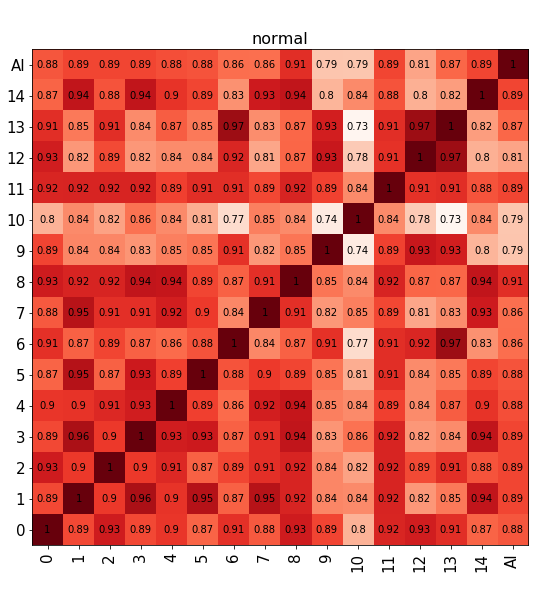
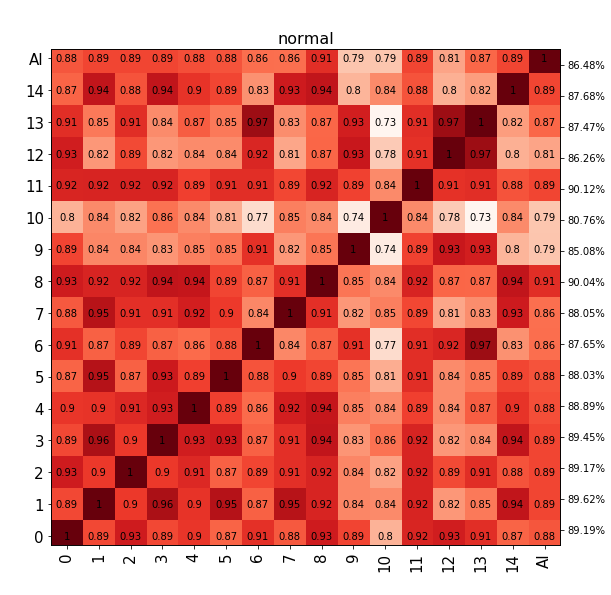
additional text, corrections, finalizing started

diff --git a/main.tex b/main.tex
@@ -84,7 +84,7 @@ tabsize=3
     \vspace{.5cm}
     \rule{140mm}{0.1mm}\\
     \vspace{.5cm}
-    {\large\itshape Olar Alex\par}
+    {\large\itshape Alex Olar\par}
     \vfill
     supervisor\par
     \vspace{0.5cm}
@@ -119,23 +119,23 @@ In 2012 a neural network-based architecture won the ImageNet Large Scale Visual 
 
 \vspace{7mm}
 
-Neural networks are universal function approximators that are organized into layers. Layers of a neural network can be highly specialized, such as convolutional layers, that can efficiently learn spatial features, others might simply do matrix multiplication and apply a non-linear mapping to the input to extract underlying information from the data. A neural network architecture nowadays is a concatenation of differentiable layers and training means adjusting the tunable weights of these layers simultaneously based on input data and an objective/loss function that we aim to minimize.
+Neural networks are universal function approximators that are organized into layers. Layers of a neural network can be highly specialized, such as convolutional layers, that can efficiently learn spatial features, others might simply do matrix multiplication and apply a non-linear mapping to the input to extract underlying information from the data. Neural network architectures nowadays are a concatenation of differentiable layers and training means adjusting the tunable weights of these layers simultaneously based on input data and an objective/loss function that we aim to minimize.
 
 \vspace{4mm}
 
-\par Computer vision for many years was based on hand-engineered feature extraction and although convolutional neural networks (CNNs) were used for some dimensionally constrained problems, such as hand-written digit recognition \cite{lecun1998gradient}. The breakthrough for CNNs came with the advent of graphical processing units (GPUs). As these processors have become widely available due to computer gaming the hardware was pushed to its limits and manufacturers poured a lot of money into research. Therefore the GPUs not only did include more and more on-board memory year-by-year but also performance was improving rapidly. Since computer graphics require a lot of matrix multiplication and concurrent, parallelized computation the scientific community jumped on it and started using graphical processors.
+\par Computer vision for many years was based on hand-engineered feature extraction and although convolutional neural networks (CNNs) were used for some dimensionally constrained problems, such as hand-written digit recognition \cite{lecun1998gradient}. The breakthrough for CNNs came with the advent of graphical processing units (GPUs). As these processors have become widely available due to computer gaming the hardware was pushed to its limits and manufacturers poured a vast amount of money into research. Therefore the GPUs not only did include more on-board memory year-by-year but also performance was improving rapidly. Since computer graphics require a lot of matrix multiplication and concurrent, parallelized computation the scientific community jumped on it and started using graphical processors for general purpose computing.
 
 \vspace{4mm}
 
-\par The ImageNet Large Scale Visual Recognition Challenge \cite{ILSVRC15} was launched in 2010 with approximately 1.2 million images containing 1000 categories. The goal of the challenge was to classify images into these categories on a held-out test set that was not provided for the participants beforehand. In 2011 a 25\% top-5 error rate was already considered very good but in 2012 the first convolutional neural network-based model \cite{krizhevsky2012imagenet} won the challenge beating the top results by a huge margin. To do so good they used GPUs heavily and proved that image classification is possible via CNNs on large scale images as well.
+\par As computer vision progressed, a need for comparable results was long overdue. The ImageNet Large Scale Visual Recognition Challenge \cite{ILSVRC15} was launched in 2010 with approximately 1.2 million images containing 1000 categories. The goal of the challenge was to classify images into these categories on a held-out test set that was not provided for the participants beforehand. In 2011 a 25\% top-5 error rate was already considered very good but in 2012 the first convolutional neural network-based model \cite{krizhevsky2012imagenet} won the challenge beating the top results by a huge margin. To do so good they used GPUs heavily and proved that image classification is possible via CNNs on large scale images as well. Therefore, the ImageNet top-5 accuracy score became the standard metric of comparing computer vision algorithms and to this day, new architectures are always compared for ImageNet performance in supervised, weakly-supervised and unsupervised settings as well.
 
 \vspace{4mm}
 
-\par Soon after the re-discovery of convolutional networks for image recognition tasks the scientific community in computer vision realized that convolutional neural networks learn generalizable features and the datasets they considered different so far are not so distinct after all. Networks trained on a dataset of recognizing 1000 different classes can be transferred to other datasets with the change of the top of the network to recognize fundamentally different images. This method is called transfer learning and is exceedingly used nowadays thanks to its efficiency.
+\par Soon after the re-discovery of convolutional networks for image recognition tasks the scientific community in computer vision realized that convolutional neural networks learn generalizable features and the datasets they considered different so far are not so distinct after all. Networks trained on a dataset of recognizing 1000 different classes can be transferred to other datasets with the change of the top of the network to recognize fundamentally different images. This method is called transfer learning and is exceedingly used nowadays thanks to its efficiency. It is rather surprising that a model trained on the ImageNet dataset which contains natural images in different contexts such as dogs in the contry side, cars in traffic, humans at work, etc. can generalize to healthcare applications such as cell segmentation, malignity detection, tissue classification via transfer of these learnt weights. 
 
 \vspace{4mm}
 
-\par Soon enough human performance was surpassed \cite{he2016deep} by the ResNet architecture and since then people are arguing whether there is still a need for improving ImageNet performance because it is so good. In response to that, the ILSVRC stopped in 2017 to focus on other problem sets. 
+\par Soon enough human performance on ILSVRC was surpassed \cite{he2016deep} by the ResNet architecture and since then people are arguing whether there is still a need for improving ImageNet performance because it is so good. In response to that, the main challenge stopped in 2017 to focus on other problem sets. On the other hand, ILSVRC performance remained a gold standard for architecture evaluation. 
 
 \vspace{7mm}
 
@@ -143,28 +143,40 @@ Neural networks are universal function approximators that are organized into lay
 
 \vspace{7mm}
 
-Currently, deep learning is everywhere and almost everyone is trying to use it to achieve better accuracy in some tasks. In the industry, the main application for artificial intelligence (AI) is to develop self-driving cars in addition to improve recommendation systems for online commercials. On the other hand, it would be highly beneficial for modern societies to use computer vision for better healthcare, education, road safety.
+Currently, deep learning is everywhere and almost everyone is trying to use it to achieve better accuracy in some tasks. In the industry, the main application for artificial intelligence (AI) is to develop self-driving cars in addition to improve recommendation systems for online commercials. On one hand, this certainly drives the economy and as a byproduct we could achieve safer transportation and better overall service as costumers/consumers. On the other hand, it would be highly beneficial for modern society to use computer vision for significantly better healthcare and education. Deep learning has enabled us to do us, from now on, the question is time and effort.
 
 \vspace{4mm}
 
-\par Google has partnered with the United Kingdom's health system ( NHS - National Health System ) to gather all the data they can to improve diagnostics and to build algorithms that can work for medics and sanitary workers to improve healthcare. This all sounds too good to be true in capitalism and it is. This has caused outrage amongst the people of the UK \cite{kollewe_2019} but they have some undeniable results regarding reading mammograms better than radiologists \cite{mckinney2020international}. We are in an era where governments can lead large-scale projects (in data size) to improve their healthcare systems without investing vast amounts of money for equipment. The COVID-19 crisis showed that with enough data and computational resources pneumonia detection can be achieved with high accuracy \cite{nvidia}.
+\par Not so long ago, Google, the tech giant, has partnered with the United Kingdom's healthcare system ( NHS - National Health System ) to gather all the data they can to improve diagnostics and to build algorithms that can work for medics and sanitary workers to improve healthcare. This all sounds too good to be true in capitalism and it is. This has caused outrage amongst the people of the UK \cite{kollewe_2019} regarding personal data protection, however, researchers at Google have some undeniable results such as, reading mammograms better than radiologists \cite{mckinney2020international}, developing a real-time colorectal cancer detection microscope \cite{chen2019augmented}. We are in an era where governments can lead large-scale projects (in data size) to improve their healthcare systems without investing vast amounts of money for equipment, labor and facilities. The COVID-19 crisis showed that with enough data and computational resources pneumonia detection can be achieved with high accuracy \cite{nvidia} proving that computer vision in medicine can be achieved on-demand.
 
 \vspace{4mm}
 
-\par In my opinion computer vision has achieved a state that almost every vision-related task can be done on human performance level or even surpassed by computers. Such as glial cell detection in mouse brain tissue \cite{suleymanova2018deep}, reading mammograms  \cite{ribli2018detecting}, 
-predicting colorectal cancer outcome \cite{skrede2020deep}, volumetric data such as CT's \cite{cciccek20163d}. I could also mention advancement in weak-lensing, astrophysics \cite{ribli2019improved} and new areas to explore, such as Hamiltonian \cite{greydanus2019hamiltonian} and Lagrangian \cite{cranmer2020lagrangian} neural networks for physics. It is also worth to mention advancement in reinforcement learning that started with playing Atari games \cite{mnih2013playing} successfully and on-par with human players and led to playing Dota 2 and Starcraft \cite{alphastarblog} in top-tier leagues. This might sound irrelevant but reinforcement learning robots will take over jobs of production line workers \cite{satariano_metz_2020} very soon.
+\par Computer vision has matured enough to reach a state where almost every vision-related task can be done on human performance level or even surpassed by computers. Such as glial cell detection in mouse brain tissue \cite{suleymanova2018deep}, reading mammograms  \cite{ribli2018detecting}, 
+predicting colorectal cancer outcome of patients \cite{skrede2020deep}, diagnosing volumetric data such as CT's \cite{cciccek20163d}. I could also mention advancement in weak-lensing, astrophysics \cite{ribli2019improved} and new areas to explore, such as Hamiltonian \cite{greydanus2019hamiltonian} and Lagrangian \cite{cranmer2020lagrangian} neural networks for physics, where the dynamics of the system is deduced from sensory input going so far as learning actual physics from images with generative models \cite{toth2019hamiltonian}. It is also worth to mention advancement in reinforcement learning that started with playing Atari games \cite{mnih2013playing} successfully and on-par with human players and led to playing Dota 2 and Starcraft \cite{alphastarblog} in top-tier leagues, both of which are tremendously complex environments that resemble real world complexity. This might sound irrelevant but reinforcement learning robots will take over the majority of production line jobs \cite{satariano_metz_2020} very soon.
 
 \vspace{4mm}
 
-\par Therefore it is the right time to research the widespread application of AI in the medical field and I am certain that doing something here is highly beneficial not only for career self-advancement but also for the society as well. 
+\par As a consequence, it is high time to research the widespread applications of AI in the medical field and in natural sciences in general. Finally, I am certain that doing something here is highly beneficial not only for self-advancement or other opportunistic reasons but also for society. We are building the future and even though I laid out a rather over-optimistic view on it, we must take precautions while deploying such systems to avoid built-in bias in our models \cite{amodei2016concrete}.
 
-\vspace{7mm}
+\newpage
 
 \subsection{Overview}
 
 \vspace{7mm}
 
-//TODO: sum up everything here that comes
+\par In the following sections I provide a brief overview of what machine learning is and how it is used in computer vision. I gather the intuitions of building such systems and talk more about convolutional algorithms. Also in this section I give a quick walk-through of a simple binary classification problem and show how that can be solved either by logistic regression or via neural networks. Closing this section the general structure of convolutional neural networks is presented.
+
+\vspace{4mm}
+
+\par In the succeeding section, I present in a nutshell the field of medical imaging and especially cancer detection/recognition. Here I mention some statistical details about cancer and demonstrate how computer vision can revolutionize treatment and patient care.
+
+\vspace{4mm}
+
+\par Moving on to the first application that I have been part of for almost a year. In this thesis, I display the techniques we used for different types of colorectal tissue recognition and malignity detection. In addition, I also exhibit the process of gathering a unique and in-size unprecedented dataset for colorectal cancer research and reveal some of our results.
+
+\vspace{4mm}
+
+\par Furthermore, I shortly talk about an on-going DREAM Challenge \footnote{'The DREAM Challenges are an open science effort, a non-profit, collaborative community effort consisting of contributors from across the research spectrum including researchers from universities; technology companies like IBM Research; not for profits, like Sage Bionetworks; and biotechnology and pharmaceutical companies.' - source \url{dreamchallenges.org/about-dream}} that deals with automated rheumathology. As the competition is still in progress, I cannot disclose any data, not even for presentation, nor include any results, as a consequence I only present our work and the methods we used. Currently we are amongst top participants.
 
 \newpage
 
@@ -176,7 +188,22 @@ predicting colorectal cancer outcome \cite{skrede2020deep}, volumetric data such
 
 \vspace{7mm}
 
-\par The human visual cortex is composed of many hierarchical layers but the image data required by our eyes is processed through cells on the retina that are sensitive to light known as the rods and cones. The rods are sensitive to color whilst the cones are sensitive to the intensity of the photons. The number of cones is significantly higher than the number of rods, therefore we are much more adapted to detecting light intensity than to colors. There are three types of these cone cells causing trichromacy \cite{arrese2002trichromacy} and therefore in computer science, the most widespread format of images is stored in RGB (red-green-blue) channels. The visual cortex is doing edge detection in the V1 (primary visual cortex) which has been computationally reproduced \cite{olshausen1996emergence} while it is assumed that the V2 \cite{ZiembaV2} and V4 are doing much more abstract representations, the latter already producing objects.
+\par The human visual cortex is composed of many hierarchical layers. The image data required by our eyes is processed through cells on the retina that are sensitive to light known as the rods and cones. The rods are sensitive to color whilst the cones are sensitive to the intensity of the photons. The number of cones is significantly higher than the number of rods, therefore we are much more adapted to detecting light intensity than to colors. There are three types of these cone cells causing trichromacy \cite{arrese2002trichromacy} and therefore in computer science, the most widespread format of storing image data is in RGB (red-green-blue) channels. The visual cortex is doing edge detection in the V1 (primary visual cortex) which has been computationally reproduced \cite{olshausen1996emergence} while it is assumed that the V2 \cite{ZiembaV2} and V4 are doing much more abstract representations, the latter already producing objects. Some researchers are occupying with demonstrating the same in neural networks \cite{cammarata2020thread:}.
+
+\vspace{4mm}
+
+\begin{minipage}[t]{0.35\textwidth}
+    \centering
+    \includegraphics[width=\textwidth]{intro/visual-cortex.png}
+    \captionof{figure}{General layout of the human visual cortex}
+    \label{fig:human-cortex}
+\end{minipage}
+\begin{minipage}[t]{0.55\textwidth}
+    \centering
+    \includegraphics[width=\textwidth]{intro/eraly-vision-distill.png}
+    \captionof{figure}{Early vision in a convolutional neural network - source \url{https://distill.pub/2020/circuits/early-vision/}}
+    \label{fig:sigmoid}
+\end{minipage}
 
 \vspace{7mm}
 
@@ -184,7 +211,7 @@ predicting colorectal cancer outcome \cite{skrede2020deep}, volumetric data such
 
 \vspace{7mm}
 
-\par All these arguments inspired many-layered convolutional neural networks that are doing computations spatial data such as images. Convolutions are about learning sliding kernels on three-dimensional image data (two spatial dimensions and color channels, 2 + 1) these kernels provide efficient and translation invariant parameters for the models. The convolutional operation is relatively simple and straight-forward. On one dimensional sequences and functions, it is defined as:
+\par All these arguments inspired many-layered convolutional neural networks that are doing computations on spatial data such as images. Convolutions are about learning sliding kernels on three-dimensional image data (two spatial dimensions and color channels, 2 + 1) these kernels provide efficient and translation invariant parameters for the models. The convolutional operation is relatively simple and straight-forward. On one dimensional sequences and functions, it is defined as:
 
 \begin{align*}
     (u * v)_n = \sum_{m = -\infty}^{\infty} u_{m} v_{n-m} \\
@@ -203,7 +230,7 @@ predicting colorectal cancer outcome \cite{skrede2020deep}, volumetric data such
 
 \vspace{4mm}
 
-\par This can be visually illustrated by the figure below where the parameters of $K$ on the image is learned algorithmically by seeing lots of examples:
+\par This can be visually illustrated by the figure below where the parameters of $K$ (blue) are learned algorithmically by seeing lots of examples:
 
 \vspace{4mm}
 
@@ -216,19 +243,25 @@ predicting colorectal cancer outcome \cite{skrede2020deep}, volumetric data such
 
 \vspace{4mm}
 
-\par There are two main branches of machine learning, such as supervised and unsupervised learning. In applications of computer vision supervised learning is used most of the time. These are methods for image classification, object detection/segmentation. These all work by defining an objective function we want to minimize to achieve a desired rate of error. 
-
-\subsubsection{Binary classification}
-
-\par The simplest case is probably binary classification. In binary classification we want to maximize the joint probability of getting a data point $x$ and by applying a function $f(x, \theta) = \hat{y}$, where $\theta$ are function parameters, we predict $\hat{y}$ probability for $x$ being in class $1$ and therefore $1 - \hat{y}$ probability for being in class $0$. If $y$ is the true label of the data point, then we can formalize our explanation as:
+\par There are two main branches of machine learning, such as supervised and unsupervised learning. In applications of computer vision supervised learning is used most of the time as it is more interpretable than unsupervised techniques and generally the goal of unsupervised learning is pre-training for supervised algorithms or knowledge distillation. These are methods for image classification, object detection/segmentation. These all work by defining an objective function we want to minimize to achieve a desired rate of error. 
 
 \vspace{4mm}
 
-\begin{align}
+\par The difference between a traditional regression method and a neural network lies in the fact the we aim to develop algorithms that generalize extremely well on unseen data, therefore we not solely aim to minimize the objective function on our data but to do so on every possible dataset that comes from the same underlying distribution. To achieve this the standard way of developing these algorithms is to split any dataset to training, validation and testing sets where we validate our algorithms on the validation set, tuning the parameters during training in order to achieve the low validation error then, without modification we evaluate on the test set. This is necessary since by tuning hyper-parameters of training we inherently minimize error on the validation set, therefore tuning for validation performance which is biased. The gap between validation error and test error somehow measures the rate of this bias and the aim is to keep this minimal.
+
+\subsubsection{Binary classification}
+
+\vspace{4mm}
+
+\par The simplest case of supervised learning is probably binary classification. In binary classification we want to maximize the joint probability of getting a data point $x$ and by applying a function $f(x, \theta) = \hat{y}$, where $\theta$ are function parameters, we predict $\hat{y}$ probability for $x$ being in class $1$ and therefore $1 - \hat{y}$ probability for being in class $0$. If $y$ is the true label of the data point, then we can formalize our explanation as:
+
+\vspace{4mm}
+
+\begin{align*}
     P(y = 1 | x) = \hat{y} \\
     P(y = 0 | x) = 1 - \hat{y} \\
     \quad \rightarrow P(y | x) = \hat{y}^{y} \cdot (1 - \hat{y})^{(1-y)}
-\end{align}
+\end{align*}
 
 \vspace{4mm}
 
@@ -238,11 +271,20 @@ predicting colorectal cancer outcome \cite{skrede2020deep}, volumetric data such
 
 \begin{equation}
     L\big(y, \hat{y}\big) = -\sum_{i = 1}^{N_{data}} \Big(y^{(i)}\log\hat{y}^{(i)} + (1 - y^{(i)})\log(1 - \hat{y}^{(i)})\Big)
+    \label{eq:bernoulli-loss}
 \end{equation}
 
 \vspace{4mm}
 
-\par As we acquired $\hat{y}^{(i)}$ by a function $f(x^{(i)}, \theta) = \hat{y}^{(i)}$ on the data point $x$ with parameters $\theta$ therefore the objective function is parametrized by $\theta$ as well. So by feeding exemplary data points to $f$ and calculating the loss we could also calculate the corresponding derivatives of the loss to the parameters $\frac{\partial L}{\partial \theta}$ and apply these derivatives with a predefined rate $\mu$ to improve the objective. We call this gradient descent since the gradient of the function gives the biggest slope on the multidimensional surface spanned by $\theta$ and if we move to the opposite direction of the gradients we then minimize the desired function. We call it batch stochastic gradient descent (SGD) if only a batch of samples is used due to computational resource limitations. This introduces noise to the learning process but if we sample the data uniformly we could still improve the objective function in many iterations:
+\par In this special case (\ref{eq:bernoulli-loss}) is called the Bernoulli-loss, due to the binary variable we predict. As we acquired $\hat{y}^{(i)}$ as a function $f(x^{(i)}, \theta) = \hat{y}^{(i)}$ on the data point $x$ with parameters $\theta$, therefore the objective function is parametrized by $\theta$ as well. 
+
+\vspace{4mm}
+
+\par The simplest technique would be to do linear regression on the training data and normalize it to $(0, 1)$ with a sigmoid function. This is called logistic regression and can be done by fitting the data to the objective with familiar methods or with gradient steps as described in the next paragraph.
+
+\vspace{4mm}
+
+By feeding exemplary data points to $f$ and calculating the loss we could also calculate the corresponding derivatives of the loss to the parameters $\frac{\partial L}{\partial \theta}$ and apply these derivatives with a predefined rate $\mu$ to improve the objective. We call this gradient descent since the gradient of the function gives the biggest slope on the multidimensional surface spanned by $\theta$ and if we move to the opposite direction of the gradients we then minimize the desired function. We call it batch stochastic gradient descent (SGD) if only a batch of samples is used due to computational resource limitations. This introduces noise to the learning process but if we sample the data uniformly we could still improve the objective function in many iterations:
 
 \vspace{4mm}
 
@@ -266,9 +308,11 @@ predicting colorectal cancer outcome \cite{skrede2020deep}, volumetric data such
 
 \vspace{4mm}
 
-\subsubsection{Structure of a CNN}
+\subsubsection{Structure of a modern CNN}
 
-\par The structure of a convolutional neural network is the following: the input is a 3-dimensional array, representing an image. The image is then fed-forward through convolutional layers with different sized and number of filters. The main intuition behind selecting the right filter/kernel sizes comes from the VGG16 architecture \cite{simonyan2014very}. The main intuition is that small kernels, usually $3x3$, can have a high receptive field after many layers, therefore using larger kernels only uses more computational resources and is not that useful. Since the image is compressed after some or each convolution by maximum or average pooling or strided convolutions it is usually so that the number of kernels used is increased with the spatial size decreased. After convolutional layers, the data is flattened into a vector and fed to a multi-layer perceptron which is matrix multiplications followed by non-linearities.
+\vspace{4mm}
+
+\par The structure of a modern convolutional neural network is the following: the input is a 3-dimensional array, representing an image. The image is then fed-forward through convolutional layers with different sized and multiplicity of filters. The main intuition behind selecting the right filter/kernel sizes comes from the VGG16 architecture \cite{simonyan2014very}. This intuition is that small kernels, usually $3x3$, can have a high receptive field after many layers, therefore using larger kernels only uses more computational resources and not that useful after all. Since the image is compressed after convolutions by maximum or average pooling or strided convolutions it is usually so that the number of kernels used is increased with the spatial size of the input image is decreased. After convolutional layers, the data is flattened into a vector or each feature map gets globally maximum or average pooled and fed into a multi-layer perceptron which is matrix multiplications followed by non-linearities \ref{fig:modern-cnn}.
 
 \vspace{4mm}
 
@@ -276,14 +320,14 @@ predicting colorectal cancer outcome \cite{skrede2020deep}, volumetric data such
     \centering
     \includegraphics[width=.8\linewidth]{wiki_cnn.png}
     \caption{Structure of a convolutional neural network - Convolutional neural networks, Wikipedia}
-    \label{fig:my_label}
+    \label{fig:modern-cnn}
 \end{figure}
 
 \vspace{4mm}
 
-\par The non-linearities or activation functions are applied after each layer to make the computation non-linear. This is necessary since a linear computation can always be represented by matrix multiplication. The best working non-linearity proved to be the rectified linear unit ReLU in deep learning and is used throughout networks. The last non-linearity, on the other hand, can be different based on the problem. For regression, it might not be needed with unbounded predictions, for binary classification the sigmoid function is used which saturates the real number in a (0, 1) interval and for non-binary classification the softmax function is used which return a probability distribution among N classes for each sample.
+\par The non-linearities or activation functions are applied after each layer to make the computation non-linear. This is necessary since a sequence of linear computations can always be replaced by a single matrix multiplication. The best working non-linearity proved to be the rectified linear unit, ReLU,  in deep learning and is used throughout many networks. The last non-linearity, on the other hand, can be different based on the problem. For regression, it might not be needed with unbounded predictions, for binary classification the sigmoid function is used which saturates the real numbers to the $(0, 1)$ interval and for non-binary classification the softmax function is used which returns a probability distribution over N classes for each input. The computations are done in batches, as everything is parallelizable, computation can be sped up by the number of available processor units, shared memory is only needed for the final loss computation.
 
-\vspace{4mm}
+\vspace{7mm}
 
 \begin{minipage}[t]{0.45\textwidth}
     \centering
@@ -306,7 +350,7 @@ predicting colorectal cancer outcome \cite{skrede2020deep}, volumetric data such
 
 \vspace{4mm}
 
-\par We have seen the objective function for binary classification before where we use the sigmoid activation function to acquire probabilities from the model but in the case of multi-class labels we use the cross-entropy loss that is defined as:
+\par We have seen the objective function for binary classification before where we use the sigmoid activation function to acquire probabilities from the model but in the case of multi-class, mutually-exclusive labels we use the cross-entropy loss that is defined as:
 
 \vspace{4mm}
 
@@ -316,9 +360,9 @@ predicting colorectal cancer outcome \cite{skrede2020deep}, volumetric data such
 
 \vspace{4mm}
 
-\par For multi-object detection and segmentation much diverse and more intricate loss functions are used and the networks themselves \cite{ren2015faster} are modified as well to handle sliding-windows efficiently via convolutions \cite{redmon2016you}.
+\par For multi-object detection and segmentation much diverse and more intricate loss functions are used and the networks themselves \cite{ren2015faster} are modified as well to handle sliding-windows efficiently via convolutions \cite{redmon2016you}. I present these in the section of rheumathology automation since we use object localization networks in that setting and it is not closely linked to the general definition of convolutional networks.
 
-\vspace{7mm}
+\newpage
 
 \section{Medical imaging}
 
@@ -796,7 +840,152 @@ we set a threshold of $5$ \% to be the minimum region occupied by the correspond
 
 \vspace{4mm}
 
-\par 
+\par We compared each doctor for each slide they annotated in each category. If they checked the same label for the same slide we added a score of $+1$ to that location and $+1$ for a label that they bot not included. There are some doctors who not yet annotated all the 100 test slides therefore we norm each similarity score by the matching slides. This results in very high scores in rare categories and representative similarity scores between the most important classes.
+
+\vspace{4mm}
+
+\begin{figure}[H]
+    \centering
+    \includegraphics[width=0.8\textwidth]{results/similarities_normal.png}
+    \caption{Similarities with annotating the category considered normal}
+    \label{fig:sim_normal}
+\end{figure}
+
+\vspace{4mm}
+
+\par In this category a similarity score of \textbf{86.48 \%} was achieved which is not top performance but a good average and it seems that without the outlier doctors \textbf{9, 10} this might be even further improved since the other doctors match better with their outlier colleagues on average than the AI pathologist. Below we present the categories that are mostly representative and the rest is provided in the supplementary.
+
+\vspace{4mm}
+
+\begin{figure}[H]
+    \centering
+    \includegraphics[width=0.7\textwidth]{results/similarities_dysplasia.png}
+    \caption{Similarities with annotating the category considered dysplasia}
+    \label{fig:sim_dysp}
+\end{figure}
+
+\begin{figure}[H]
+    \centering
+    \includegraphics[width=0.7\textwidth]{results/similarities_highgrade_dysplasia.png}
+    \caption{Similarities with annotating the category considered high-grade dysplasia}
+    \label{fig:sim_highgradedysp}
+\end{figure}
+
+\vspace{4mm}
+
+\par From these results it seems that both in local categories dysplasia and high-grade dysplasia the AI pathologist is performing similarly to other doctors. Sadly in a severe category such as adenocarcinoma the resulting algorithm falls behind the rest of the experts.
+
+\begin{figure}[H]
+    \centering
+    \includegraphics[width=0.8\textwidth]{results/similarities_adenocarcinoma.png}
+    \caption{Similarities with annotating the category considered adenocarcinoma}
+    \label{fig:sim_adeno}
+\end{figure}
+
+\vspace{4mm}
+
+\par TODO: finish evaluation...
+
+\newpage
+
+\section{Deep learning for rheumatology}
+
+\vspace{7mm}
+
+\subsection{Overview of the problem}
+
+\vspace{4mm}
+
+\par Rheumatoid arthritis (RA) is an autoimmune disfunction where the immune system attacks the joints of the body and as a result they become swollen, deformed and degrade. The primary cause of the disorder is unknown and the medical care given to patients is primarily focused on reducing pain and improve life conditions. RA affects 25 million people according to \cite{vos2016global} and therefore a serious issue for the developed world.
+
+\vspace{4mm}
+
+\par In joints RA causes swelling and erosion of bone tissue. This can be evaluated by scanning through X-ray scans of all four limbs of a patient. A general scoring system has been proposed and implemented in clinical procedure by \cite{van1995radiographic}. It includes scoring for all joints in hand and feet for erosion and narrowing but the main aim of the authors was to develop a scoring system that helps to understand and quantify the progression of the disease in patients. The scoring involves for hands a score between 0-5 per joint for 16 joints per hand and a score between 0-4 for narrowing per joint for 15 joints per hand. The feet are scored differently for erosion since 6 joints are involved per foot and each side of the joints are score on a scale of 0-5, as for narrowing the same 6 joints are scored in 0-4 range.
+
+\vspace{4mm}
+
+\par This scoring is visually evaluated and an overall erosion and narrowing score is concluded from a patients hands and foot that describes the degradation rate. 
+
+\vspace{4mm}
+
+\begin{figure}[H]
+    \centering
+    \includegraphics[width=0.3\textwidth]{ra/RheumatoideArthritisAP.jpg}
+    \caption{Serious RA degradation, WikiPedia}
+    \label{fig:ra_wiki}
+\end{figure}
+
+\vspace{4mm}
+
+\subsection{The RA2-DREAM Challenge}
+
+\vspace{4mm}
+
+\par The problem is proposed in \url{https://www.synapse.org/#!Synapse:syn20545111/wiki/} and is still on-going at this time. As I am a challenge participant the rules apply to me and I can't share any data and result that we have on this challenge but currently we are in top three teams in all sub-challenges of the competition. I'll describe the method we used and the details from a computer vision perspective.
+
+\vspace{4mm}
+
+\subsection{Data}
+
+\vspace{4mm}
+
+\par No data can be presented before publication of the challenge paper therefore here I will not disclose any data from the challenge set. However, I need to mention that for detection we manually annotated all the challenge data for the joints with tight bounding boxes around them (~20 hours), except the wrist which contained many joints that we handled jointly. Here is a representation of bounding boxes we annotated for images found on RadioPedia:
+
+\vspace{4mm}
+
+\begin{minipage}[t]{0.42\textwidth}
+    \centering
+    \includegraphics[width=0.6\textwidth]{ra/ra2-hand-bboxes.png}
+    \captionof{figure}{Annotated hand joints for detection (image soruce - \url{https://radiopaedia.org/cases/mutilating-rheumatoid-arthritis} \url{-of-the-wrist?lang=us})}
+    \label{fig:ra2-hand-annot}
+\end{minipage}
+\begin{minipage}[t]{0.42\textwidth}
+    \centering
+    \includegraphics[width=0.6\textwidth]{ra/ra2-feet-annot.png}
+    \captionof{figure}{Annotated foot joints for detection (image source - \url{https://radiopaedia.org/cases/rheumatoid-arthritis-feet?lang=us})}
+    \label{fig:ra2-foot-annot}
+\end{minipage}
+
+\vspace{4mm}
+
+\par In the challenge the annotated joints then had erosion and narrowing scores accordingly and for each patient the feet and hands were given as examples.
+
+\vspace{4mm}
+
+\subsection{Vision models}
+
+\vspace{4mm}
+
+\par In our vision models we applied a two-step approach. First we used the open-sourced FAIR Detectron2 \cite{wu2019detectron2} framework to implement a Mask-RCNN \cite{he2017mask} detection model on top of our hand-annotated data of the X-ray images. Mask-RCNN is generally used for segmentation but it is an empirical observation that using it for detection with the bounding-boxes as segmentation masks generally helps the algorithm to perform better in detection tasks.
+
+\vspace{4mm}
+
+\par Since the held out test set was not given to participants as the evaluation is done blindly by submitting the trained models we fit the whole training data for segmentation. Generally, selecting a reasonable number of iterations for training a detection model helps achieve good generalization and not so much over-fitting on the training set.
+
+\vspace{4mm}
+
+\begin{figure}[H]
+    \centering
+    \includegraphics[width=0.6\textwidth]{ra/maskrcnn.jpg}
+    \caption{A general layout of Mask-RCNN}
+    \label{fig:mask-rcnn}
+\end{figure}
+
+\vspace{4mm}
+
+\par On the above figure [\ref{fig:mask-rcnn}] the general structure of the segmentation model can be seen which a bounding box regressor based on the Faster R-CNN \cite{ren2015faster} architecture in addition with an instance segmentation module proposed in the Mask-RCNN paper.
+
+\vspace{4mm}
+
+\par The detection was done separately for hands and feet and we applied random horizontal flipping, brightness, saturation and contrast augmentation during the training process. Since a detection model only outputs proposals with a confidence score as results we had to select a threshold manually and had to select the most confident score for each joint. This was usually very high unless the deformation was so bad that even a human observer would have not been able to separate the joints be visual inspection. If the model would be applied in medical practice we could label the less confident segmentation results for additional medical inspection for a doctor with this method.
+
+\vspace{4mm}
+
+\par After the segmentation of the detected hand and foot joints we cut out the image parts from the original X-ray scans and built a dataset with joints and the corresponding erosion and narrowing scores that were given for the training data. We applied a regression model with modified ReLU activation functions that were capped at 4 and 5 according to the limit of erosion and narrowing scores for joint annotations. We applied aggressive image augmentation by changing hue, saturation, contrast levels in addition to horizontal flipping and some slight rotation of the images.
+
+\vspace{4mm}
+
+\par We experimented with several models such as different depth ResNet \cite{he2016deep} architectures as well as state-of-the-art EfficientNetB7 \cite{tan2019efficientnet} architecture. At last, an ensemble of these models provided the best results that we optimized jointly for root mean squared error score. Separate models were trained for hand digits, wrist and foot regression for erosion and narrowing scoring.
 
 \newpage
 
